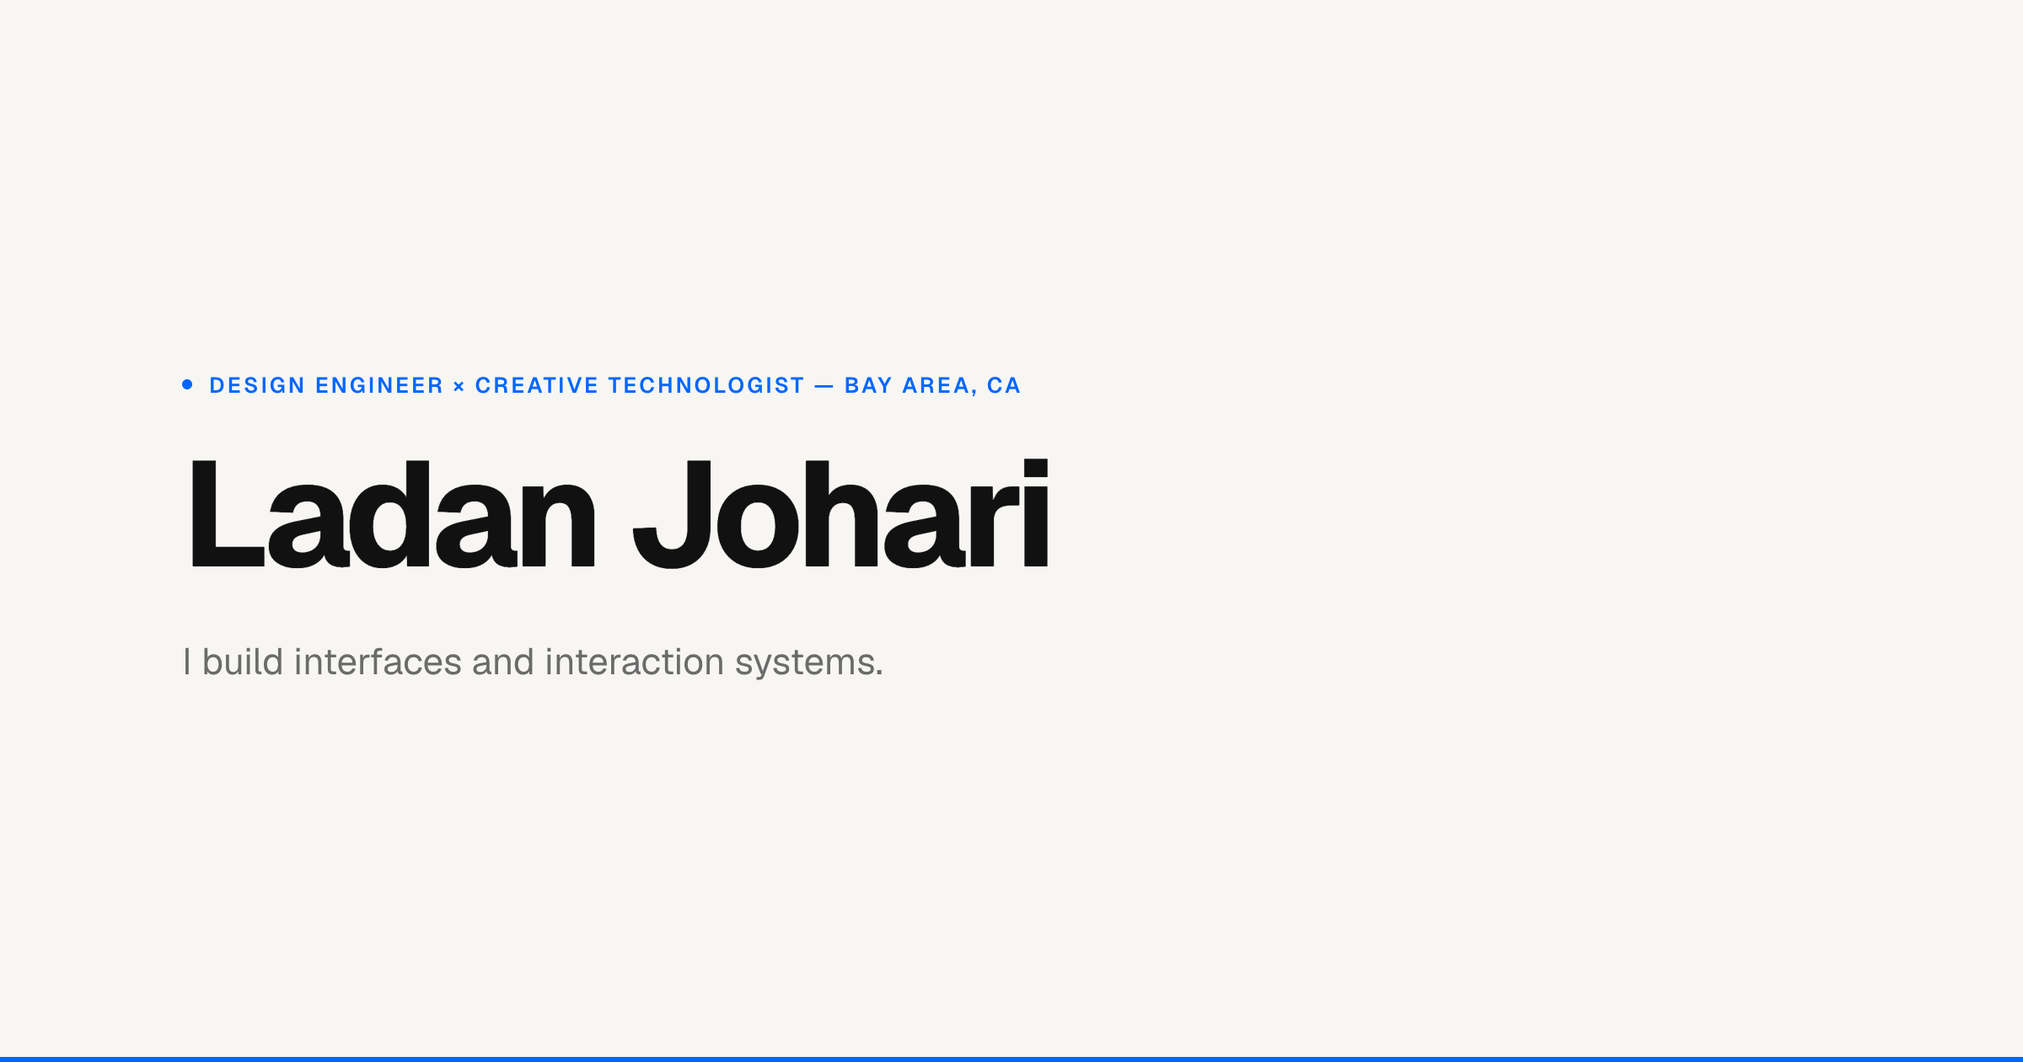
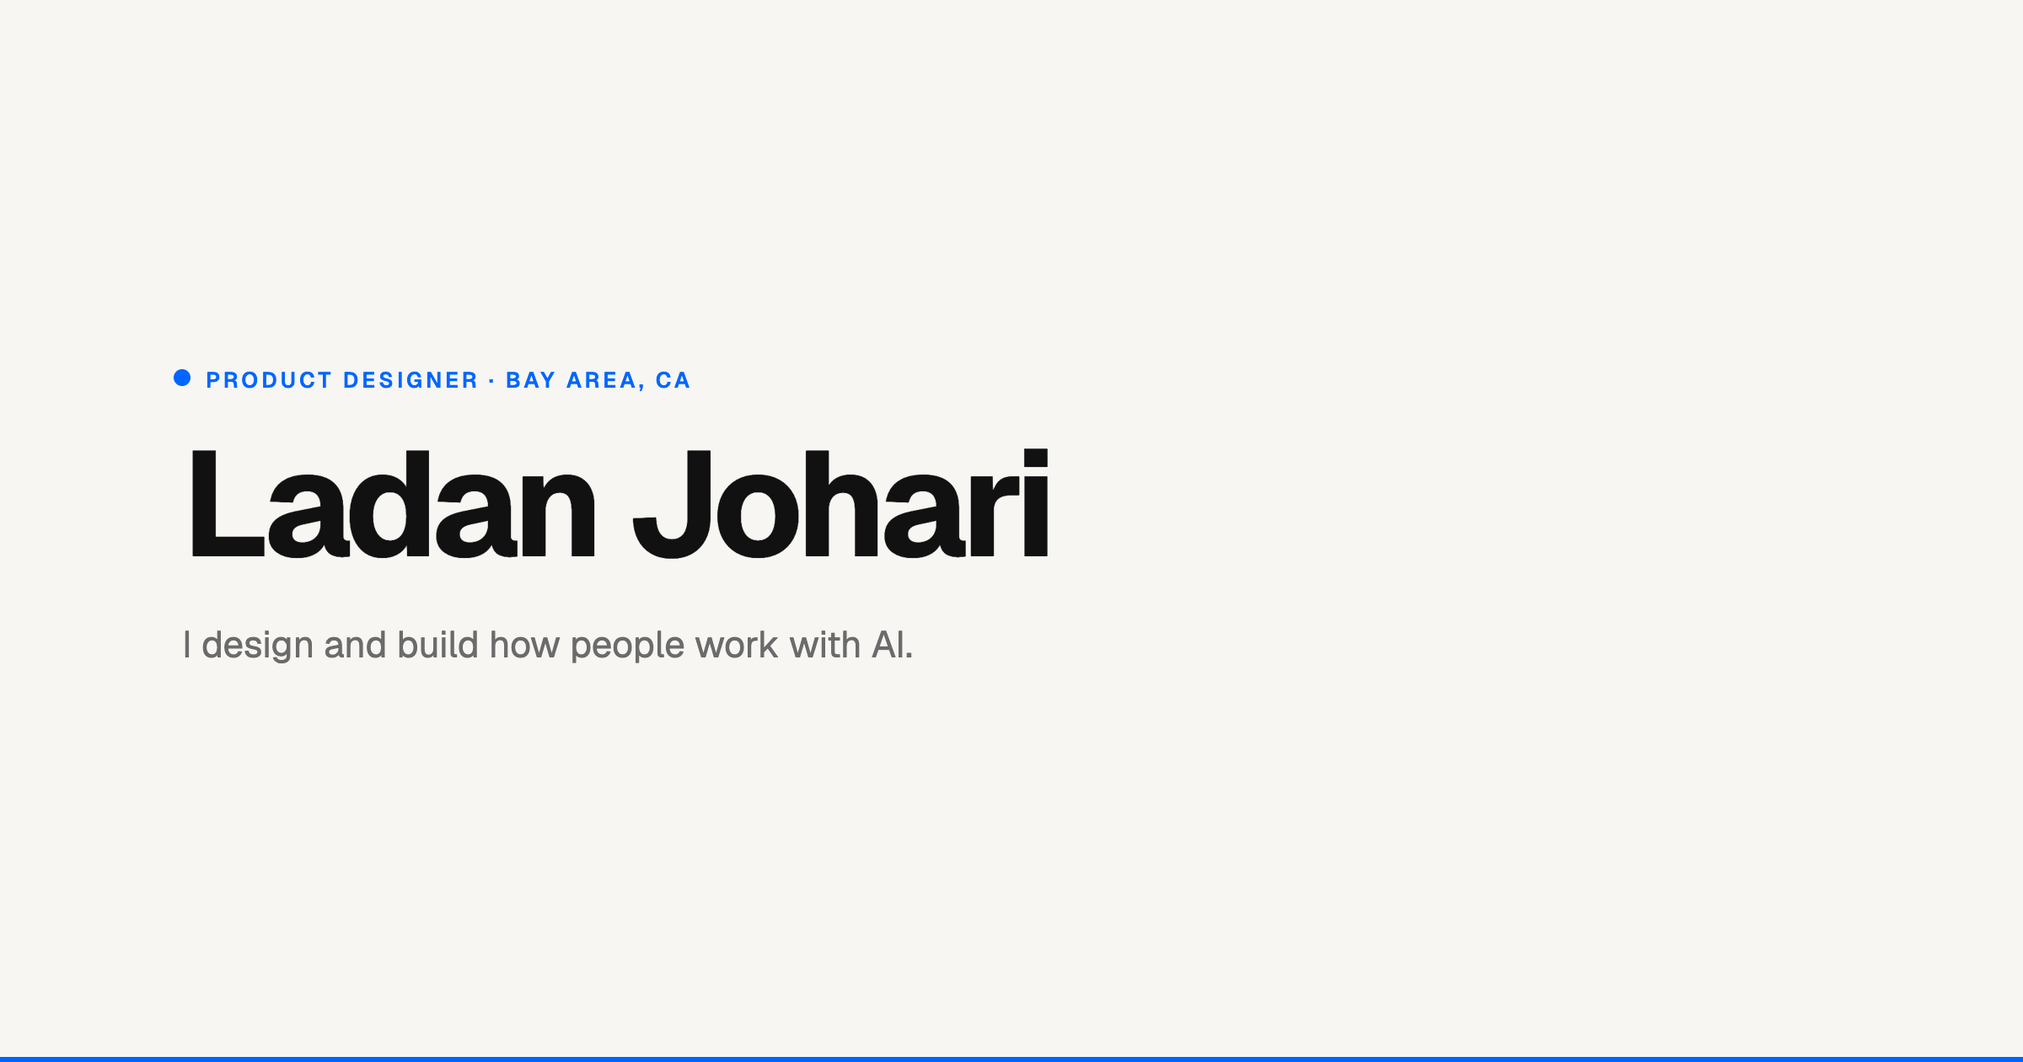
component(HeroBlock): Product Designer title, agent-approvals row removed
- HeroBlock: "Product Designer · Bay Area, CA" over "I design and build how people work with AI."
- Tab title, description, link preview text, structured data and AboutStrip say product designer
- WorkList: agent-approvals (ApprovalGate) row removed; order is Session Indicator, Prompted Find, Starling, Substrate, Xcode Symbol Browser, Trails
- og-image: new title and line, re-rendered at 2400x1260

diff --git a/index.html b/index.html
@@ -6,12 +6,12 @@
   <meta name="color-scheme" content="light dark" />
   <meta name="theme-color" content="#F7F6F3" media="(prefers-color-scheme: light)" />
   <meta name="theme-color" content="#1A1A1A" media="(prefers-color-scheme: dark)" />
-  <title>Ladan Johari &middot; Design Engineer</title>
-  <meta name="description" content="Ladan Johari is a Design Engineer in the San Francisco Bay Area building AI interfaces, interaction systems, and developer tools. MFA Design, UC Davis." />
+  <title>Ladan Johari &middot; Product Designer</title>
+  <meta name="description" content="Ladan Johari is a product designer in the San Francisco Bay Area who designs and builds how people work with AI. MFA Design, UC Davis." />
   <meta name="robots" content="index, follow" />
   <link rel="canonical" href="https://ladanjohari.com/" />
-  <meta property="og:title" content="Ladan Johari &middot; Design Engineer" />
-  <meta property="og:description" content="Design Engineer in the Bay Area. AI interfaces, interaction craft, design systems." />
+  <meta property="og:title" content="Ladan Johari &middot; Product Designer" />
+  <meta property="og:description" content="Product designer in the Bay Area. I design and build how people work with AI." />
   <meta property="og:url" content="https://ladanjohari.com/" />
   <meta property="og:type" content="website" />
   <meta property="og:image" content="https://ladanjohari.com/assets/og-image.png" />
@@ -23,7 +23,7 @@
   <link rel="icon" type="image/png" sizes="32x32" href="/assets/favicon-32.png" />
   <link rel="apple-touch-icon" sizes="180x180" href="/assets/apple-touch-icon.png" />
   <script type="application/ld+json">
-  {"@context":"https://schema.org","@type":"Person","name":"Ladan Johari","jobTitle":"Design Engineer","url":"https://ladanjohari.com","sameAs":["https://www.linkedin.com/in/ladan-johari/","https://github.com/ladanjohari"],"address":{"@type":"PostalAddress","addressRegion":"CA","addressCountry":"US"}}
+  {"@context":"https://schema.org","@type":"Person","name":"Ladan Johari","jobTitle":"Product Designer","url":"https://ladanjohari.com","sameAs":["https://www.linkedin.com/in/ladan-johari/","https://github.com/ladanjohari"],"address":{"@type":"PostalAddress","addressRegion":"CA","addressCountry":"US"}}
   </script>
   <link rel="preload" href="/assets/fonts/geist-latin.woff2" as="font" type="font/woff2" crossorigin />
   <style>
@@ -267,8 +267,8 @@
   </nav>
 
   <header class="hero">
-    <p class="hero-eyebrow hero-eyebrow-anim"><span class="eyebrow-dot"></span>Design Engineer &middot; Bay Area, CA</p>
-    <h1 class="hero-headline hero-line">I build interfaces and interaction&nbsp;systems.</h1>
+    <p class="hero-eyebrow hero-eyebrow-anim"><span class="eyebrow-dot"></span>Product Designer &middot; Bay Area, CA</p>
+    <h1 class="hero-headline hero-line">I design and build how people work with&nbsp;AI.</h1>
     <p class="hero-desc">
       <span class="hero-line">I make software easy to read, fast to move through, and intentional with&nbsp;details.</span>
     </p>
@@ -277,6 +277,71 @@
   <section id="work" aria-label="Selected work" style="margin-bottom:0;">
     <h2 class="section-label reveal">Selected Work</h2>
     <ul class="work-list">
+
+      <li class="work-item reveal">
+        <a class="work-row" draggable="false"href="/projects/session-indicator.html">
+          <div class="work-thumb"><svg viewBox="0 0 196 122" xmlns="http://www.w3.org/2000/svg" aria-hidden="true" focusable="false">
+        <rect width="196" height="122" fill="#0e0e12"/>
+        <!-- menu bar hint with pill -->
+        <rect width="196" height="15" fill="#17171c"/><rect y="14.5" width="196" height=".5" fill="#26262c"/>
+        <rect x="120" y="3.5" width="52" height="8.4" rx="4.2" fill="#2d2d33" stroke="#45454e" stroke-width=".5"/>
+        <circle cx="129" cy="7.7" r="1.9" fill="#FF3B30"/><circle cx="136.5" cy="7.7" r="1.9" fill="#E8952A"/><circle cx="144" cy="7.7" r="1.9" fill="#fff"/><circle cx="151.5" cy="7.7" r="1.9" fill="#34C759"/>
+        <text x="159" y="10" fill="#a8a8b0" font-family="Geist,sans-serif" font-size="5" font-weight="600">+2</text>
+        <!-- popover, springs from pill -->
+        <path d="M141 15 l4.5 6 l4.5 -6 Z" fill="#1d1d23" transform="rotate(180 145.5 18)"/>
+        <rect x="52" y="21" width="128" height="86" rx="10" fill="#1d1d23" stroke="#32323a" stroke-width=".6"/>
+        <text x="62" y="35" fill="#8a8a93" font-family="Geist,sans-serif" font-size="6" font-weight="600" letter-spacing=".4">SESSIONS</text>
+        <text x="170" y="35" fill="#55555e" font-family="Geist,sans-serif" font-size="5.4" text-anchor="end">4 active</text>
+        <circle cx="65" cy="49" r="2.8" fill="#fff"/><text x="72" y="51.6" fill="#e2e2e8" font-family="Geist,sans-serif" font-size="6.6" font-weight="500">build-assets</text><text x="170" y="51.6" fill="#6a6a72" font-family="Geist,sans-serif" font-size="5.6" text-anchor="end">running &middot; 1m</text>
+        <circle cx="65" cy="64" r="2.8" fill="#E8952A"/><text x="72" y="66.6" fill="#e2e2e8" font-family="Geist,sans-serif" font-size="6.6" font-weight="500">run-tests</text><text x="170" y="66.6" fill="#E8952A" font-family="Geist,sans-serif" font-size="5.6" text-anchor="end">waiting &middot; 12m</text>
+        <circle cx="65" cy="79" r="2.8" fill="#FF3B30"/><text x="72" y="81.6" fill="#e2e2e8" font-family="Geist,sans-serif" font-size="6.6" font-weight="500">deploy-agent</text><text x="170" y="81.6" fill="#FF3B30" font-family="Geist,sans-serif" font-size="5.6" text-anchor="end">error &middot; 2m</text>
+        <circle cx="65" cy="94" r="2.8" fill="#34C759"/><text x="72" y="96.6" fill="#8a8a93" font-family="Geist,sans-serif" font-size="6.6" font-weight="500">lint-check</text><text x="170" y="96.6" fill="#6a6a72" font-family="Geist,sans-serif" font-size="5.6" text-anchor="end">done &middot; 1m</text>
+      </svg><video class="thumb-video" src="/assets/previews/session-indicator-frame-light.mp4" data-src-light="/assets/previews/session-indicator-frame-light.mp4" data-src-dark="/assets/previews/session-indicator-frame.mp4" loop muted playsinline preload="metadata"></video></div>
+          <div class="work-info">
+            <h3 class="work-title">Session Indicator</h3>
+            <div class="work-desc">Track every running AI agent from the menu bar so you never lose your place.</div>
+            <div class="work-tags">AI Agent UI &middot; Interaction System</div>
+          </div>
+          <div class="work-meta">
+            <span class="work-year">2026</span>
+            <span class="work-status">View project <span class="work-arrow">&rarr;</span></span>
+          </div>
+        </a>
+      </li>
+
+      <li class="work-item reveal">
+        <a class="work-row" draggable="false"href="/projects/promptedfind.html">
+          <div class="work-thumb"><svg viewBox="0 0 196 122" xmlns="http://www.w3.org/2000/svg" aria-hidden="true" focusable="false">
+        <rect width="196" height="122" fill="#0d1424"/>
+        <!-- video player -->
+        <rect x="14" y="8" width="168" height="38" rx="6" fill="#101a32" stroke="#1e2d52" stroke-width=".6"/>
+        <path d="M93 21 L93 33 L104 27 Z" fill="#334a80"/>
+        <!-- ruler -->
+        <text x="16" y="58" fill="#44598a" font-family="Geist,sans-serif" font-size="5">0:00</text>
+        <text x="98" y="58" fill="#44598a" font-family="Geist,sans-serif" font-size="5" text-anchor="middle">37:00</text>
+        <text x="180" y="58" fill="#44598a" font-family="Geist,sans-serif" font-size="5" text-anchor="end">1:14:31</text>
+        <!-- track with segments (image 1) -->
+        <rect x="16" y="63" width="164" height="4.6" rx="2.3" fill="#1b2a4a"/>
+        <rect x="16" y="63" width="22" height="4.6" rx="2.3" fill="#2e4d94"/><rect x="52" y="63" width="26" height="4.6" rx="2.3" fill="#2e4d94"/><rect x="104" y="63" width="24" height="4.6" rx="2.3" fill="#2e4d94"/><rect x="148" y="63" width="32" height="4.6" rx="2.3" fill="#2e4d94"/>
+        <!-- red round playhead on the track -->
+        <circle cx="119" cy="65.3" r="5.4" fill="#e0524d"/>
+        <!-- moment pills, white labels (image 1) -->
+        <rect x="16" y="84" width="36" height="16" rx="4.5" fill="#2e4d94"/><text x="34" y="94.6" fill="#fff" font-family="Geist,sans-serif" font-size="6.4" font-weight="600" text-anchor="middle">Why h&#8230;</text>
+        <rect x="56" y="84" width="40" height="16" rx="4.5" fill="#2e4d94"/><text x="76" y="94.6" fill="#fff" font-family="Geist,sans-serif" font-size="6.4" font-weight="600" text-anchor="middle">Mars at&#8230;</text>
+        <rect x="100" y="84" width="38" height="16" rx="4.5" fill="#e0524d"/><text x="119" y="94.6" fill="#fff" font-family="Geist,sans-serif" font-size="6.4" font-weight="600" text-anchor="middle">Deploy&#8230;</text>
+        <rect x="142" y="84" width="38" height="16" rx="4.5" fill="#2e4d94"/><text x="161" y="94.6" fill="#fff" font-family="Geist,sans-serif" font-size="6.4" font-weight="600" text-anchor="middle">Precision</text>
+      </svg><video class="thumb-video" src="/assets/previews/promptedfind-frame.mp4" data-src-light="/assets/previews/promptedfind-frame.mp4" data-src-dark="/assets/previews/promptedfind-frame-dark.mp4" loop muted playsinline preload="metadata"></video></div>
+          <div class="work-info">
+            <h3 class="work-title">Prompted Find</h3>
+            <div class="work-desc">Find the moment you need in a long video by meaning, not keywords.</div>
+            <div class="work-tags">Semantic Decomposition &middot; Applied to Video</div>
+          </div>
+          <div class="work-meta">
+            <span class="work-year">2025</span>
+            <span class="work-status">View project <span class="work-arrow">&rarr;</span></span>
+          </div>
+        </a>
+      </li>
 
       <li class="work-item reveal">
         <a class="work-row" draggable="false" href="/projects/starling.html">
@@ -319,108 +384,6 @@
           </div>
           <div class="work-meta">
             <span class="work-year">2026</span>
-            <span class="work-status">View project <span class="work-arrow">&rarr;</span></span>
-          </div>
-        </a>
-      </li>
-
-      <li class="work-item reveal">
-        <a class="work-row" draggable="false"href="/projects/session-indicator.html">
-          <div class="work-thumb"><svg viewBox="0 0 196 122" xmlns="http://www.w3.org/2000/svg" aria-hidden="true" focusable="false">
-        <rect width="196" height="122" fill="#0e0e12"/>
-        <!-- menu bar hint with pill -->
-        <rect width="196" height="15" fill="#17171c"/><rect y="14.5" width="196" height=".5" fill="#26262c"/>
-        <rect x="120" y="3.5" width="52" height="8.4" rx="4.2" fill="#2d2d33" stroke="#45454e" stroke-width=".5"/>
-        <circle cx="129" cy="7.7" r="1.9" fill="#FF3B30"/><circle cx="136.5" cy="7.7" r="1.9" fill="#E8952A"/><circle cx="144" cy="7.7" r="1.9" fill="#fff"/><circle cx="151.5" cy="7.7" r="1.9" fill="#34C759"/>
-        <text x="159" y="10" fill="#a8a8b0" font-family="Geist,sans-serif" font-size="5" font-weight="600">+2</text>
-        <!-- popover, springs from pill -->
-        <path d="M141 15 l4.5 6 l4.5 -6 Z" fill="#1d1d23" transform="rotate(180 145.5 18)"/>
-        <rect x="52" y="21" width="128" height="86" rx="10" fill="#1d1d23" stroke="#32323a" stroke-width=".6"/>
-        <text x="62" y="35" fill="#8a8a93" font-family="Geist,sans-serif" font-size="6" font-weight="600" letter-spacing=".4">SESSIONS</text>
-        <text x="170" y="35" fill="#55555e" font-family="Geist,sans-serif" font-size="5.4" text-anchor="end">4 active</text>
-        <circle cx="65" cy="49" r="2.8" fill="#fff"/><text x="72" y="51.6" fill="#e2e2e8" font-family="Geist,sans-serif" font-size="6.6" font-weight="500">build-assets</text><text x="170" y="51.6" fill="#6a6a72" font-family="Geist,sans-serif" font-size="5.6" text-anchor="end">running &middot; 1m</text>
-        <circle cx="65" cy="64" r="2.8" fill="#E8952A"/><text x="72" y="66.6" fill="#e2e2e8" font-family="Geist,sans-serif" font-size="6.6" font-weight="500">run-tests</text><text x="170" y="66.6" fill="#E8952A" font-family="Geist,sans-serif" font-size="5.6" text-anchor="end">waiting &middot; 12m</text>
-        <circle cx="65" cy="79" r="2.8" fill="#FF3B30"/><text x="72" y="81.6" fill="#e2e2e8" font-family="Geist,sans-serif" font-size="6.6" font-weight="500">deploy-agent</text><text x="170" y="81.6" fill="#FF3B30" font-family="Geist,sans-serif" font-size="5.6" text-anchor="end">error &middot; 2m</text>
-        <circle cx="65" cy="94" r="2.8" fill="#34C759"/><text x="72" y="96.6" fill="#8a8a93" font-family="Geist,sans-serif" font-size="6.6" font-weight="500">lint-check</text><text x="170" y="96.6" fill="#6a6a72" font-family="Geist,sans-serif" font-size="5.6" text-anchor="end">done &middot; 1m</text>
-      </svg><video class="thumb-video" src="/assets/previews/session-indicator-frame-light.mp4" data-src-light="/assets/previews/session-indicator-frame-light.mp4" data-src-dark="/assets/previews/session-indicator-frame.mp4" loop muted playsinline preload="metadata"></video></div>
-          <div class="work-info">
-            <h3 class="work-title">Session Indicator</h3>
-            <div class="work-desc">Track every running AI agent from the menu bar so you never lose your place.</div>
-            <div class="work-tags">AI Agent UI &middot; Interaction System</div>
-          </div>
-          <div class="work-meta">
-            <span class="work-year">2026</span>
-            <span class="work-status">View project <span class="work-arrow">&rarr;</span></span>
-          </div>
-        </a>
-      </li>
-
-      <li class="work-item reveal">
-        <a class="work-row" draggable="false"href="https://ladanjohari.com/agent-approvals/" target="_blank" rel="noopener">
-          <div class="work-thumb"><svg viewBox="0 0 196 122" xmlns="http://www.w3.org/2000/svg" aria-hidden="true" focusable="false">
-  <rect width="196" height="122" fill="#0b0c0e"/>
-  <!-- terminal window -->
-  <rect x="10" y="12" width="176" height="98" rx="8" fill="#131519" stroke="#23262c" stroke-width=".7"/>
-  <!-- title bar -->
-  <path d="M10 20 a8 8 0 0 1 8 -8 h160 a8 8 0 0 1 8 8 v2 H10 Z" fill="#1a1d22"/>
-  <circle cx="19" cy="17.5" r="2.1" fill="#3a3e46"/>
-  <circle cx="26" cy="17.5" r="2.1" fill="#3a3e46"/>
-  <circle cx="33" cy="17.5" r="2.1" fill="#3a3e46"/>
-  <line x1="10" y1="23" x2="186" y2="23" stroke="#23262c" stroke-width=".7"/>
-  <!-- the command, mid-type -->
-  <text x="18" y="42" fill="#4d5560" font-family="ui-monospace,SFMono-Regular,Menlo,monospace" font-size="8.4">$</text>
-  <text x="26" y="42" fill="#e6eaf0" font-family="ui-monospace,SFMono-Regular,Menlo,monospace" font-size="8.4">npm i agent-approvals</text>
-  <rect x="128.5" y="35.4" width="5" height="8.6" fill="#e6eaf0"/>
-  <!-- install output -->
-  <text x="18" y="58" fill="#4d5560" font-family="ui-monospace,SFMono-Regular,Menlo,monospace" font-size="6.6">added 1 package in 1s</text>
-  <text x="18" y="72" fill="#3f8f5e" font-family="ui-monospace,SFMono-Regular,Menlo,monospace" font-size="6.6">&#8226;</text>
-  <text x="24" y="72" fill="#5a6270" font-family="ui-monospace,SFMono-Regular,Menlo,monospace" font-size="6.6">StatusIndicator  ApprovalGate</text>
-  <text x="24" y="82" fill="#5a6270" font-family="ui-monospace,SFMono-Regular,Menlo,monospace" font-size="6.6">SessionStrip     ActivityTrail</text>
-  <!-- next prompt -->
-  <text x="18" y="98" fill="#4d5560" font-family="ui-monospace,SFMono-Regular,Menlo,monospace" font-size="8.4">$</text>
-</svg>
-<video class="thumb-video" src="/assets/previews/agent-approvals-frame.mp4" data-src-light="/assets/previews/agent-approvals-frame.mp4" data-src-dark="/assets/previews/agent-approvals-frame.mp4" loop muted playsinline preload="metadata"></video></div>
-          <div class="work-info">
-            <h3 class="work-title">agent-approvals</h3>
-            <div class="work-desc">Open-source React components for the moment an agent needs a person. Compress the ordinary, never compress the exception.</div>
-            <div class="work-tags">React &middot; TypeScript &middot; Published on npm</div>
-          </div>
-          <div class="work-meta">
-            <span class="work-year">2026</span>
-            <span class="work-status">View docs <span class="work-arrow">&rarr;</span></span>
-          </div>
-        </a>
-      </li>
-
-      <li class="work-item reveal">
-        <a class="work-row" draggable="false"href="/projects/promptedfind.html">
-          <div class="work-thumb"><svg viewBox="0 0 196 122" xmlns="http://www.w3.org/2000/svg" aria-hidden="true" focusable="false">
-        <rect width="196" height="122" fill="#0d1424"/>
-        <!-- video player -->
-        <rect x="14" y="8" width="168" height="38" rx="6" fill="#101a32" stroke="#1e2d52" stroke-width=".6"/>
-        <path d="M93 21 L93 33 L104 27 Z" fill="#334a80"/>
-        <!-- ruler -->
-        <text x="16" y="58" fill="#44598a" font-family="Geist,sans-serif" font-size="5">0:00</text>
-        <text x="98" y="58" fill="#44598a" font-family="Geist,sans-serif" font-size="5" text-anchor="middle">37:00</text>
-        <text x="180" y="58" fill="#44598a" font-family="Geist,sans-serif" font-size="5" text-anchor="end">1:14:31</text>
-        <!-- track with segments (image 1) -->
-        <rect x="16" y="63" width="164" height="4.6" rx="2.3" fill="#1b2a4a"/>
-        <rect x="16" y="63" width="22" height="4.6" rx="2.3" fill="#2e4d94"/><rect x="52" y="63" width="26" height="4.6" rx="2.3" fill="#2e4d94"/><rect x="104" y="63" width="24" height="4.6" rx="2.3" fill="#2e4d94"/><rect x="148" y="63" width="32" height="4.6" rx="2.3" fill="#2e4d94"/>
-        <!-- red round playhead on the track -->
-        <circle cx="119" cy="65.3" r="5.4" fill="#e0524d"/>
-        <!-- moment pills, white labels (image 1) -->
-        <rect x="16" y="84" width="36" height="16" rx="4.5" fill="#2e4d94"/><text x="34" y="94.6" fill="#fff" font-family="Geist,sans-serif" font-size="6.4" font-weight="600" text-anchor="middle">Why h&#8230;</text>
-        <rect x="56" y="84" width="40" height="16" rx="4.5" fill="#2e4d94"/><text x="76" y="94.6" fill="#fff" font-family="Geist,sans-serif" font-size="6.4" font-weight="600" text-anchor="middle">Mars at&#8230;</text>
-        <rect x="100" y="84" width="38" height="16" rx="4.5" fill="#e0524d"/><text x="119" y="94.6" fill="#fff" font-family="Geist,sans-serif" font-size="6.4" font-weight="600" text-anchor="middle">Deploy&#8230;</text>
-        <rect x="142" y="84" width="38" height="16" rx="4.5" fill="#2e4d94"/><text x="161" y="94.6" fill="#fff" font-family="Geist,sans-serif" font-size="6.4" font-weight="600" text-anchor="middle">Precision</text>
-      </svg><video class="thumb-video" src="/assets/previews/promptedfind-frame.mp4" data-src-light="/assets/previews/promptedfind-frame.mp4" data-src-dark="/assets/previews/promptedfind-frame-dark.mp4" loop muted playsinline preload="metadata"></video></div>
-          <div class="work-info">
-            <h3 class="work-title">Prompted Find</h3>
-            <div class="work-desc">Find the moment you need in a long video by meaning, not keywords.</div>
-            <div class="work-tags">Semantic Decomposition &middot; Applied to Video</div>
-          </div>
-          <div class="work-meta">
-            <span class="work-year">2025</span>
             <span class="work-status">View project <span class="work-arrow">&rarr;</span></span>
           </div>
         </a>
@@ -571,7 +534,7 @@
 
   <section aria-label="About" style="margin-bottom:80px;">
     <h2 class="section-label reveal">About</h2>
-    <p class="about-text reveal" style="margin-top:20px;">I&rsquo;m a creative technologist with an MFA in Design from UC Davis and a master&rsquo;s in Architecture. Now, as a design engineer, and with AI tools in the loop, I direct the work like a studio of one: getting prototypes ready for early testing, collecting feedback, and moving quickly without losing quality.</p>
+    <p class="about-text reveal" style="margin-top:20px;">I&rsquo;m a creative technologist with an MFA in Design from UC Davis and a master&rsquo;s in Architecture. Now, as a product designer, and with AI tools in the loop, I direct the work like a studio of one: getting prototypes ready for early testing, collecting feedback, and moving quickly without losing quality.</p>
     <div class="about-strip reveal">
       <p class="about-tease"><strong><a href="/art.html">Before all this, I made physical things &rarr;</a></strong><span style="display:block; margin-top:8px;">Minimum form, maximum presence. The rule that shapes my art still runs through everything I design.</span></p>
       <a class="album-link" href="/art.html" id="albumLink" aria-label="See the art">
